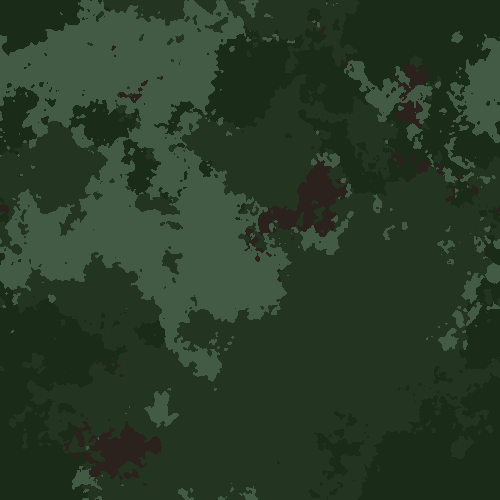
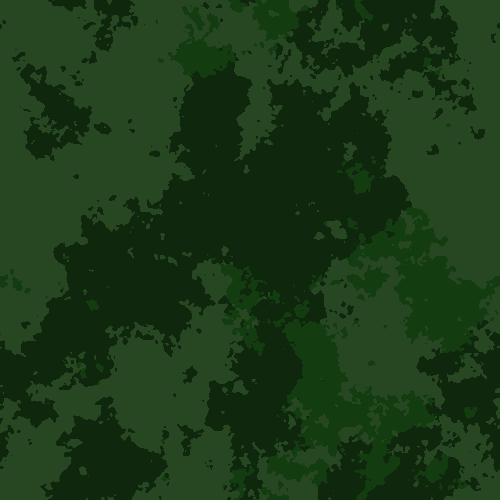
tested 2

diff --git a/camogen.py b/camogen.py
@@ -52,6 +52,6 @@ def generate_pattern(colors_hex, output_filename, size=(), c=2.0):
     return img
 
 # Example usage:                    replace image path with your own
-color_palette = cp.extract_palette("demo_input/k20r.jpg", num_colors=4)
+color_palette = cp.extract_palette("demo_input/t2.png", num_colors=3)
 generate_pattern(color_palette, "gencamo.png", size=(500, 500), c= 1.4)
 #                            output image name     custom size  C value
